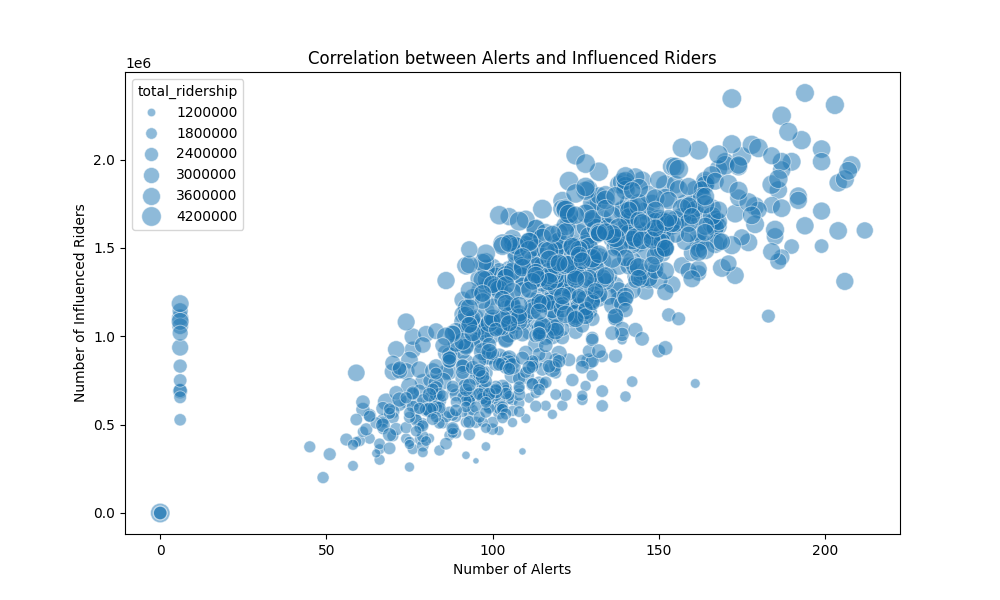
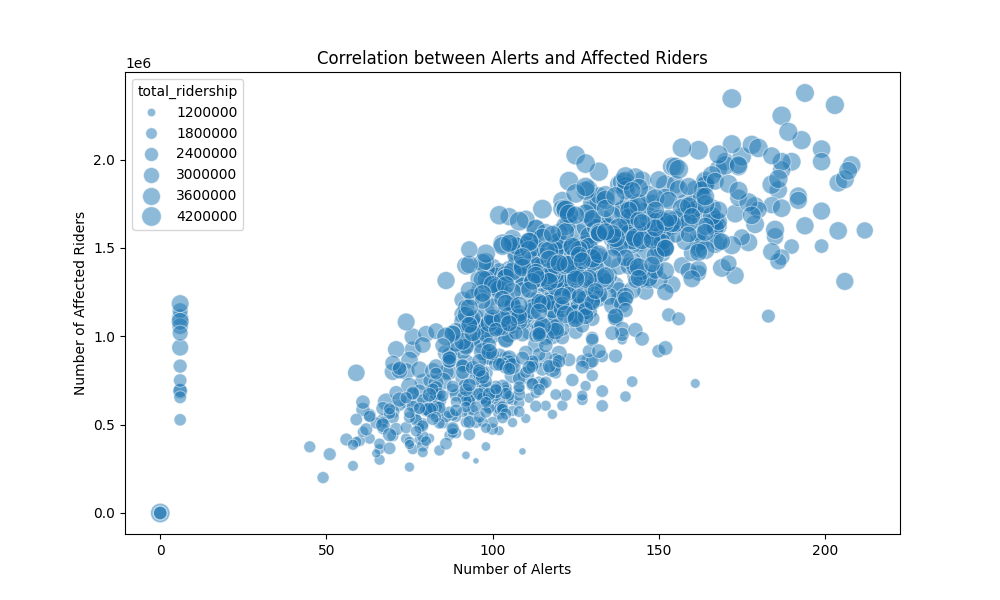
change wording

Changed region(s): [[0.31, 0.06, 0.713, 0.12], [0.062, 0.33, 0.093, 0.66]]

diff --git a/analysis/plot-result.py b/analysis/plot-result.py
@@ -10,12 +10,12 @@ import matplotlib.dates as mdates
 df = pd.read_csv("./analysis/mta_ridership_with_alerts_daily.tsv", sep="\t", parse_dates=['date'])
 plt.figure(figsize=(15, 6))
 
-# Convert 'influenced_riders' and 'total_ridership' columns to numeric
-df['influenced_riders'] = pd.to_numeric(df['influenced_riders'], errors='coerce')
+# Convert 'affected_riders' and 'total_ridership' columns to numeric
+df['affected_riders'] = pd.to_numeric(df['affected_riders'], errors='coerce')
 df['total_ridership'] = pd.to_numeric(df['total_ridership'], errors='coerce')
 
-# Calculate percentage of influenced riders
-df['impact_percentage'] = (df['influenced_riders'] / df['total_ridership']) * 100
+# Calculate percentage of affected riders
+df['impact_percentage'] = (df['affected_riders'] / df['total_ridership']) * 100
 
 
 
@@ -27,7 +27,7 @@ sns.scatterplot(data=df, x='date', y='impact_percentage', size='alert_count',
 
 plt.title('Percentage of Riders Potentially Affected by Alerts')
 plt.xlabel('Date')
-plt.ylabel('Percentage of Riders Influenced (%)')
+plt.ylabel('Percentage of Riders Affected (%)')
 plt.xticks(rotation=45)
 
 # save to file
@@ -40,15 +40,15 @@ plt.savefig(f'./analysis/{plot_name}.png')
 df['day_of_week'] = df['date'].dt.day_name()
 
 plt.figure(figsize=(12, 6))
-sns.boxplot(data=df, x='day_of_week', y='influenced_riders', 
+sns.boxplot(data=df, x='day_of_week', y='affected_riders', 
             order=['Monday', 'Tuesday', 'Wednesday', 'Thursday', 'Friday', 'Saturday', 'Sunday'])
 
-plt.title('Distribution of Influenced Riders by Day of Week')
+plt.title('Distribution of Affected Riders by Day of Week')
 plt.xticks(rotation=45)
-plt.ylabel('Number of Influenced Riders')
+plt.ylabel('Number of Affected Riders')
 
 # save to file
-plot_name = "influenced_riders_by_day_of_week"
+plot_name = "affected_riders_by_day_of_week"
 plt.savefig(f'./analysis/{plot_name}.png')
 
 ########################################################
@@ -58,23 +58,23 @@ df['month'] = df['date'].dt.to_period('M')
 
 monthly_avg = df.groupby('month').agg({
     'total_ridership': 'mean',
-    'influenced_riders': 'mean',
+    'affected_riders': 'mean',
     'alert_count': 'mean'
 }).reset_index()
 
 monthly_avg['month'] = monthly_avg['month'].dt.to_timestamp()
-monthly_avg['percentage_influenced'] = (monthly_avg['influenced_riders'] / monthly_avg['total_ridership']) * 100
+monthly_avg['percentage_affected'] = (monthly_avg['affected_riders'] / monthly_avg['total_ridership']) * 100
 
 plt.figure(figsize=(15, 6))
-sns.lineplot(data=monthly_avg, x='month', y='percentage_influenced', marker='o')
-plt.title('Monthly Average Percentage of Influenced Riders')
+sns.lineplot(data=monthly_avg, x='month', y='percentage_affected', marker='o')
+plt.title('Monthly Average Percentage of Affected Riders')
 plt.xticks(rotation=45)
-plt.ylabel('Percentage of Influenced Riders (%)')
+plt.ylabel('Percentage of Affected Riders (%)')
 
 plt.gca().xaxis.set_major_formatter(mdates.DateFormatter('%Y-%m'))
 plt.gca().xaxis.set_major_locator(mdates.MonthLocator())
 
-plot_name = "monthly_average_percentage_influenced_riders"
+plot_name = "monthly_average_percentage_affected_riders"
 plt.savefig(f'./analysis/{plot_name}.png')
 
 
@@ -82,12 +82,12 @@ plt.savefig(f'./analysis/{plot_name}.png')
 # ALERT IMPACT
 ########################################################
 plt.figure(figsize=(10, 6))
-sns.scatterplot(data=df, x='alert_count', y='influenced_riders', 
+sns.scatterplot(data=df, x='alert_count', y='affected_riders', 
                 alpha=0.5, size='total_ridership', sizes=(20, 200))
 
-plt.title('Correlation between Alerts and Influenced Riders')
+plt.title('Correlation between Alerts and Affected Riders')
 plt.xlabel('Number of Alerts')
-plt.ylabel('Number of Influenced Riders')
+plt.ylabel('Number of Affected Riders')
 
 # save to file
 plot_name = "alert_impact"

diff --git a/analysis/README.md b/analysis/README.md
@@ -10,11 +10,11 @@ This directory contains visualizations analyzing the relationship between MTA se
 
 This scatter plot shows the daily percentage of total riders potentially affected by service alerts. Each point represents a day, with the size of the point indicating the number of alerts on that day. This visualization helps identify days with unusually high impact relative to ridership.
 
-### 2. Weekly Distribution of Influenced Riders
+### 2. Weekly Distribution of Affected Riders
 
-![Weekly Distribution](./influenced_riders_by_day_of_week.png)
+![Weekly Distribution](./affected_riders_by_day_of_week.png)
 
-This box plot displays the distribution of influenced riders across different days of the week. The boxes show:
+This box plot displays the distribution of affected riders across different days of the week. The boxes show:
 
 - Median number of affected riders
 - Interquartile range (25th to 75th percentile)
@@ -24,7 +24,7 @@ This helps identify patterns in service disruption impacts across different days
 
 ### 3. Monthly Average Impact
 
-![Monthly Trends](./monthly_average_percentage_influenced_riders.png)
+![Monthly Trends](./monthly_average_percentage_affected_riders.png)
 
 This line plot tracks the monthly average percentage of riders potentially affected by service alerts. The trend line helps identify:
 
@@ -39,14 +39,14 @@ This line plot tracks the monthly average percentage of riders potentially affec
 This scatter plot examines the relationship between:
 
 - Number of daily alerts (x-axis)
-- Number of potentially influenced riders (y-axis)
+- Number of potentially affected riders (y-axis)
 - Total daily ridership (point size)
 
 This visualization helps understand whether more alerts consistently lead to more affected riders, and how this relationship varies with overall ridership volume.
 
 ## Methodology Note
 
-The "influenced riders" metric represents an upper bound estimate, counting riders who:
+The "affected riders" metric represents an upper bound estimate, counting riders who:
 
 - Entered stations serving disrupted lines
 - Entered within 30 minutes of a relevant service alert
